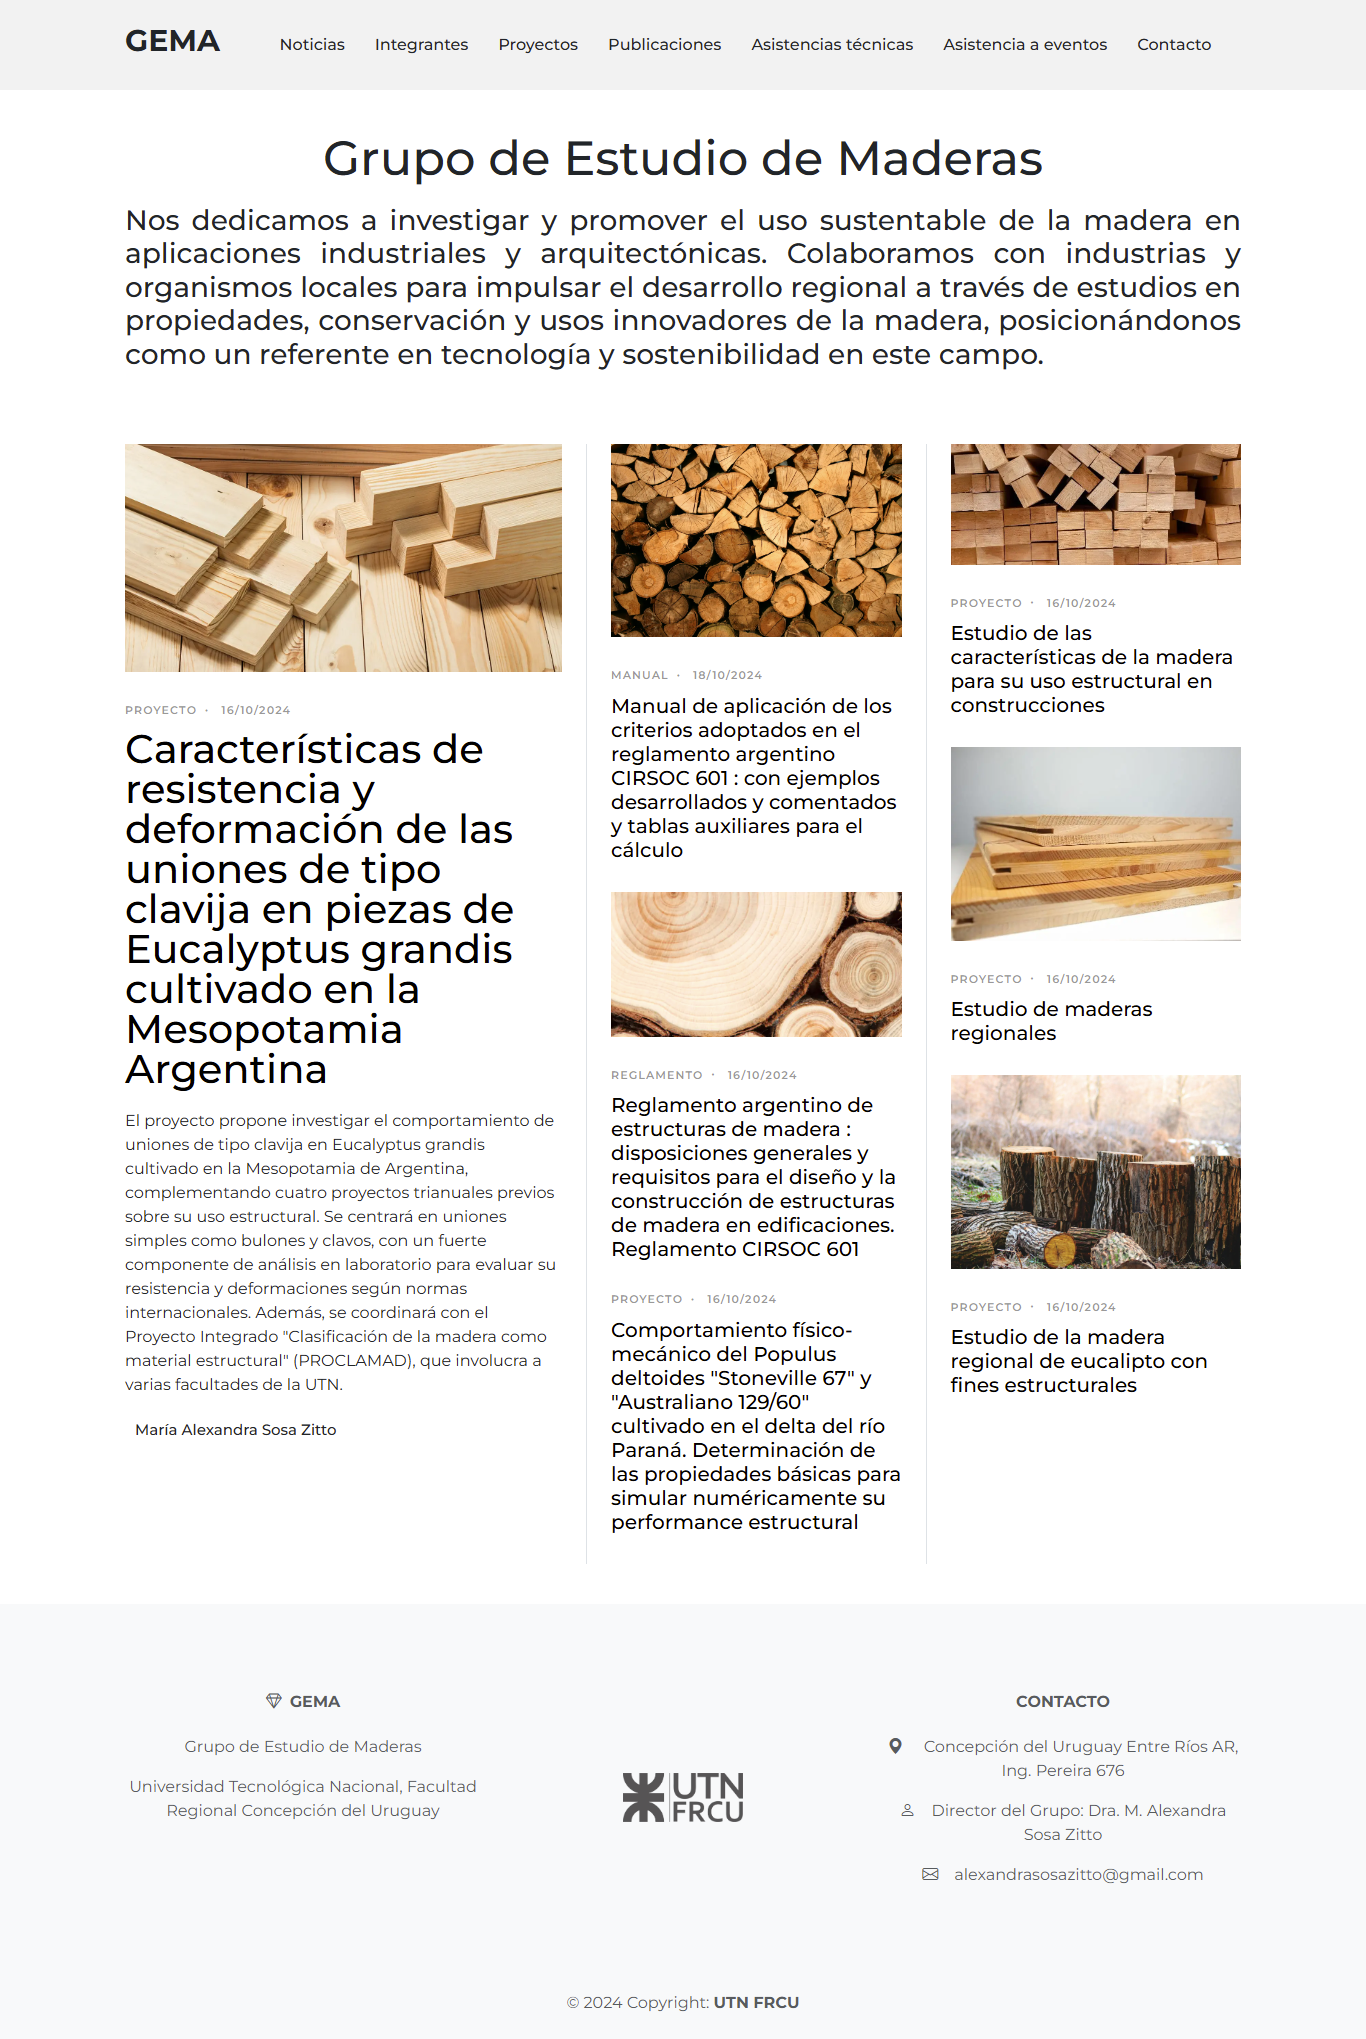
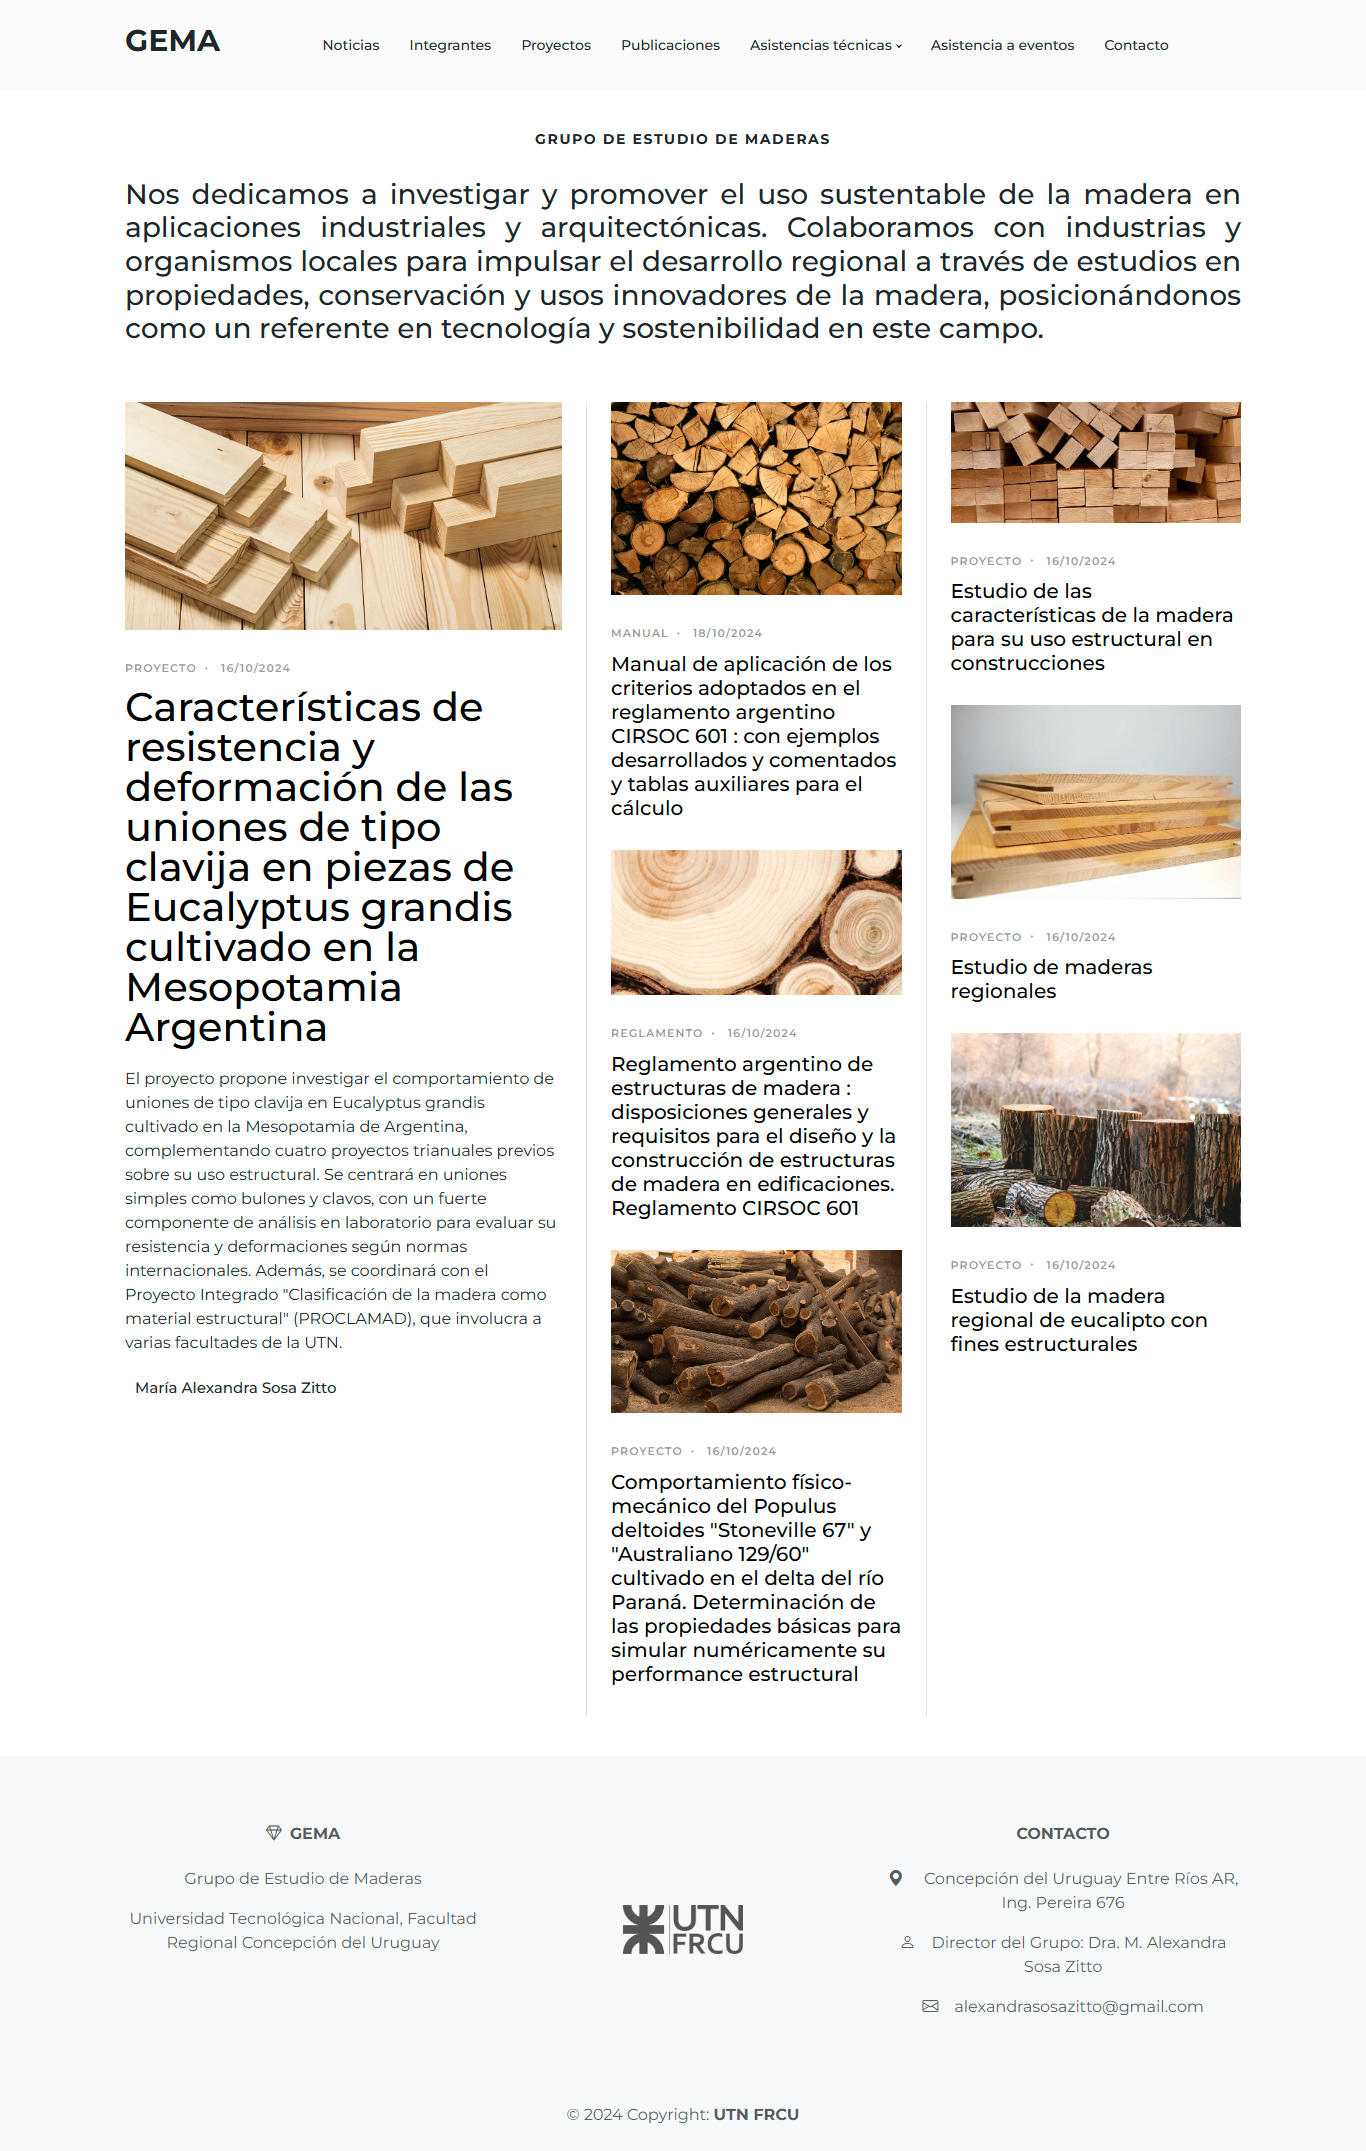
updated gema project image and made it so that you can scroll to see it entirely

diff --git a/style.css b/style.css
@@ -413,6 +413,11 @@ section {
   flex-direction: column;
 }
 
+div.article-container {
+  overflow-y: scroll;
+  max-height: 500px;
+}
+
 .article-container {
   display: flex;
   text-align: initial;
